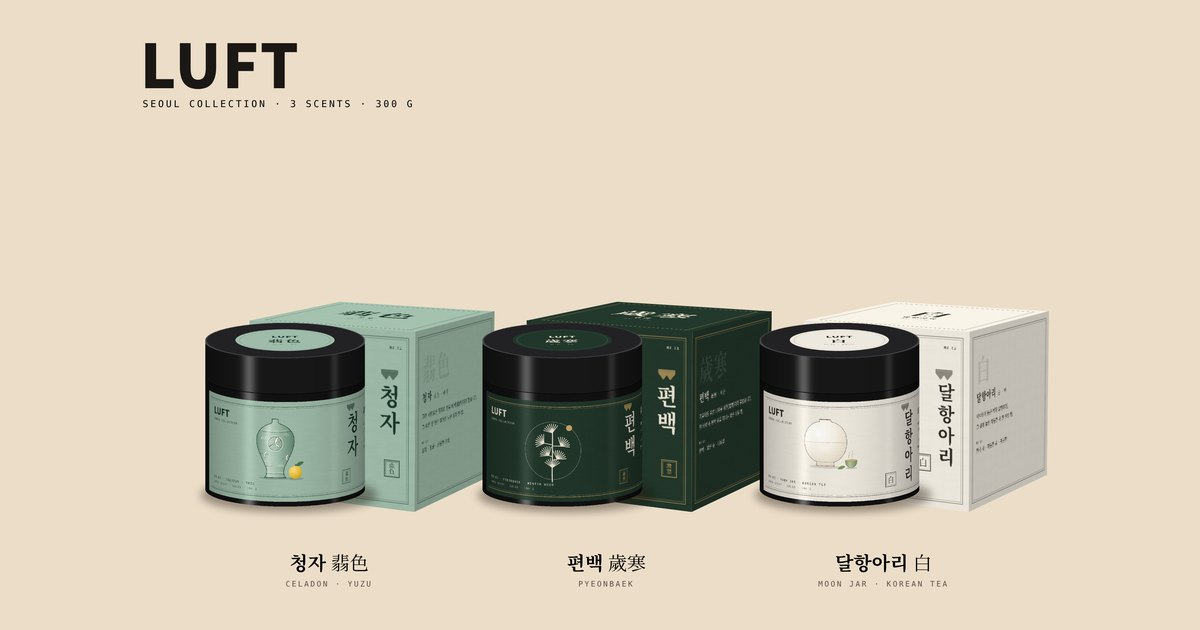
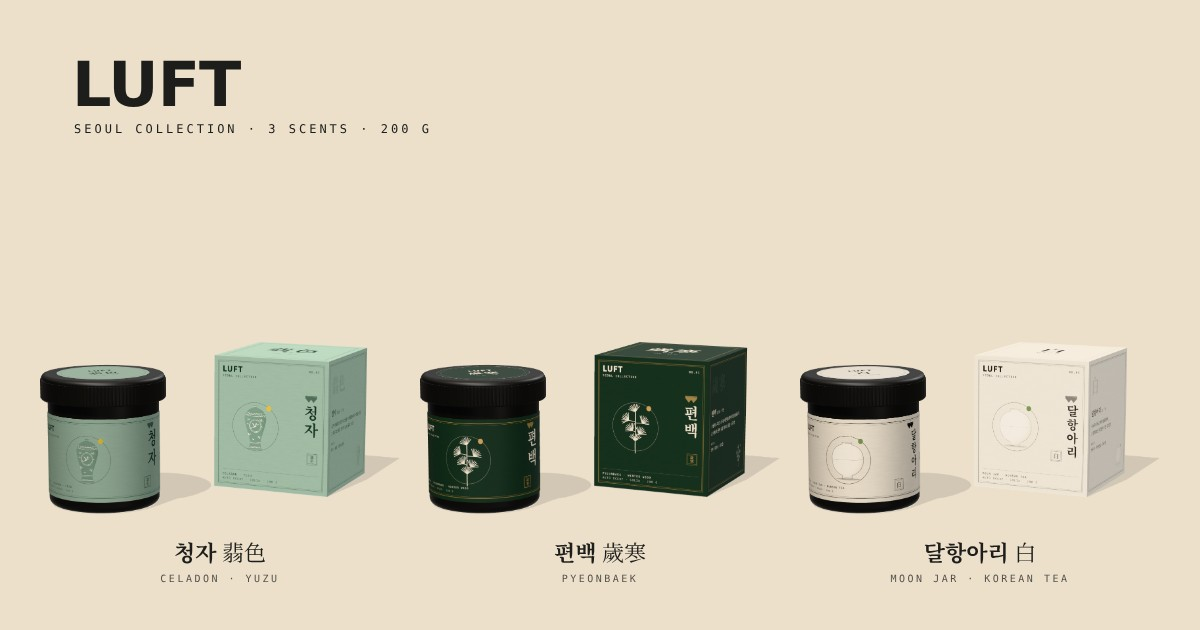
LUFT 공유 미리보기 이미지: 블랙 통 + 200g으로 교체
Claude-Session: https://claude.ai/code/session_01CHRf4KTcqoW5MpopzikoD1

diff --git a/index.html b/index.html
@@ -8,7 +8,7 @@
 <meta property="og:type" content="website"><meta property="og:site_name" content="LUFT">
 <meta property="og:title" content="LUFT — 한국의 향과 무늬를 매일 쓰는 물건에">
 <meta property="og:description" content="AUTO SCENT 편백·청자·달항아리 출시 알림 신청 중 · 서울 컬렉션 케이스 국내 주문 제작">
-<meta property="og:image" content="https://probe2928-crypto.github.io/luft/img/og.jpg"><meta name="twitter:card" content="summary_large_image">
+<meta property="og:image" content="https://probe2928-crypto.github.io/luft/img/og.jpg?v=2"><meta name="twitter:card" content="summary_large_image">
 <link rel="manifest" href="manifest.webmanifest"><link rel="apple-touch-icon" href="img/icons/icon-180.png">
 <link rel="stylesheet" href="https://fonts.googleapis.com/css2?family=Noto+Serif+KR:wght@500;700&display=swap">
 <link rel="preconnect" href="https://fonts.googleapis.com">
